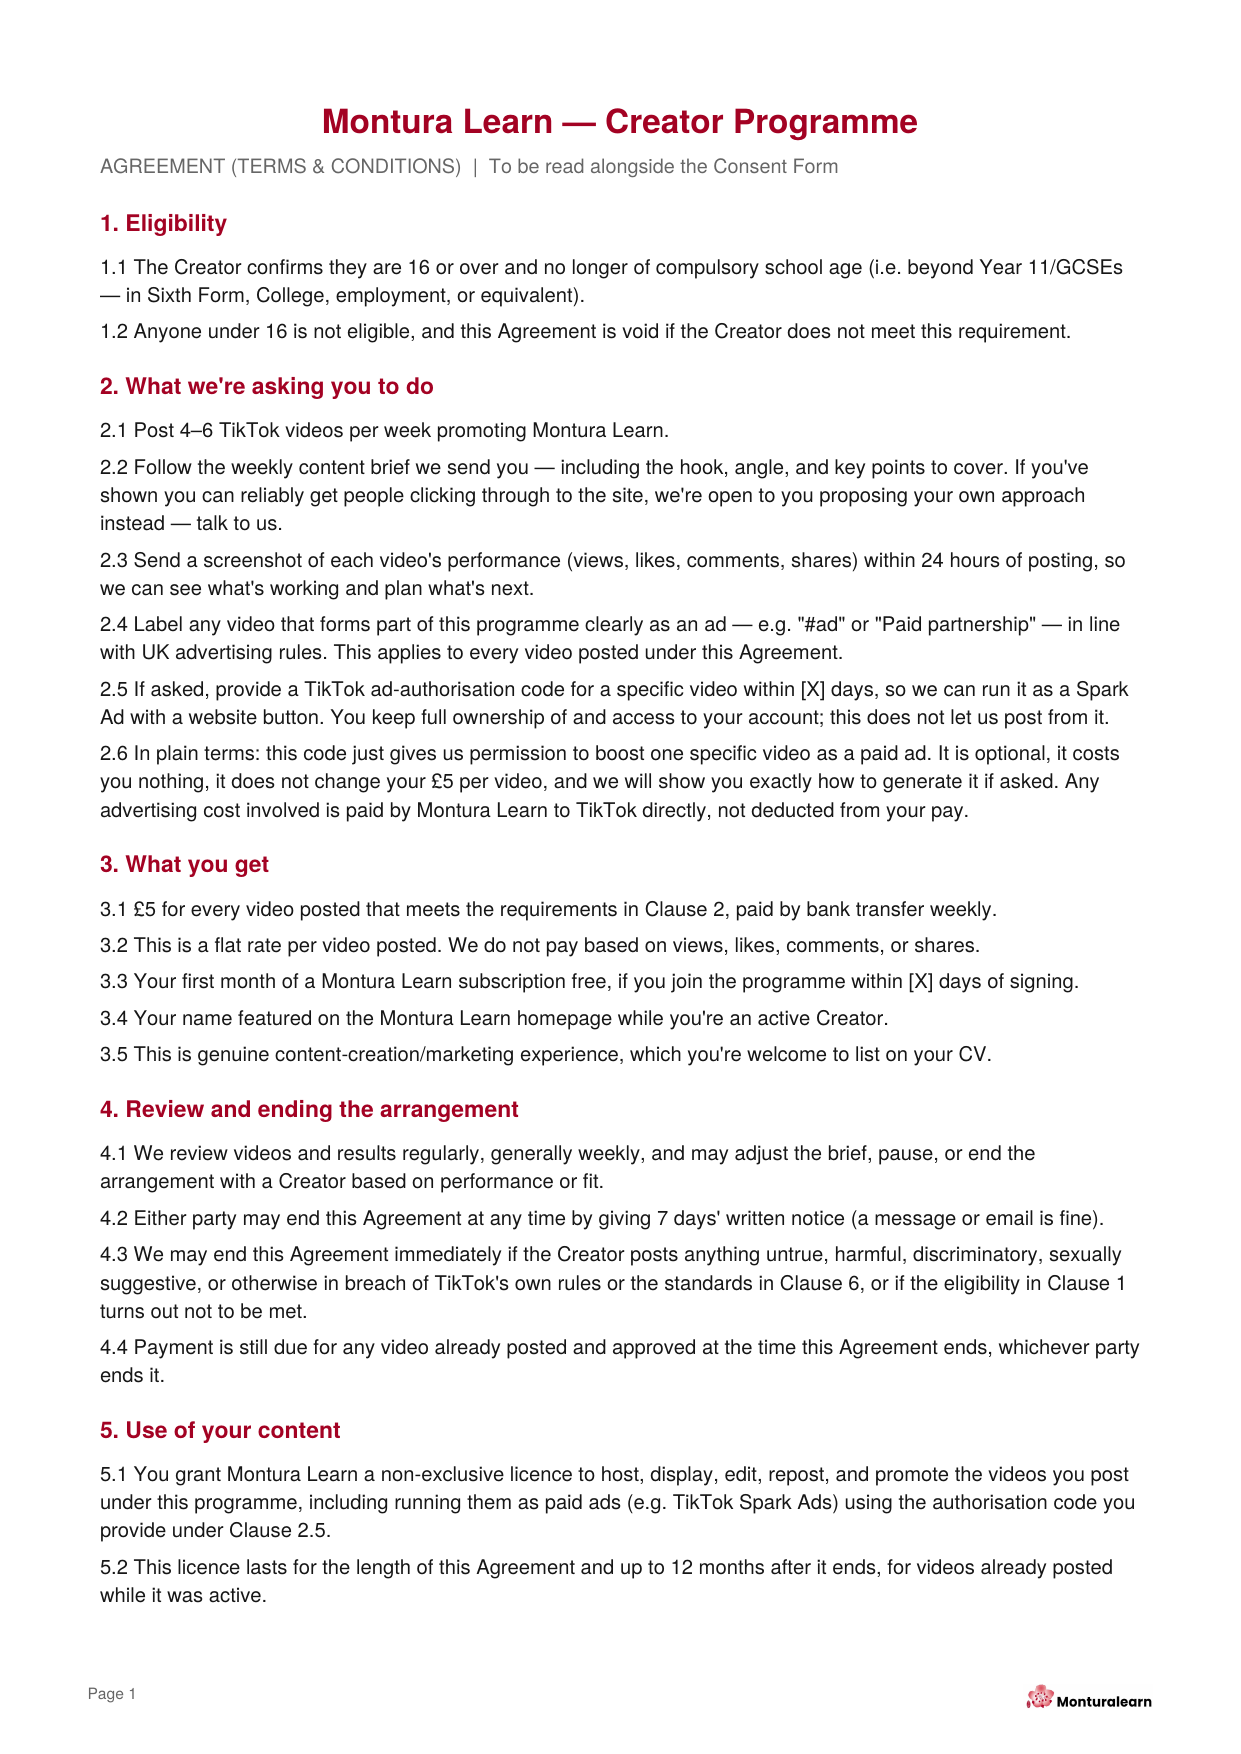
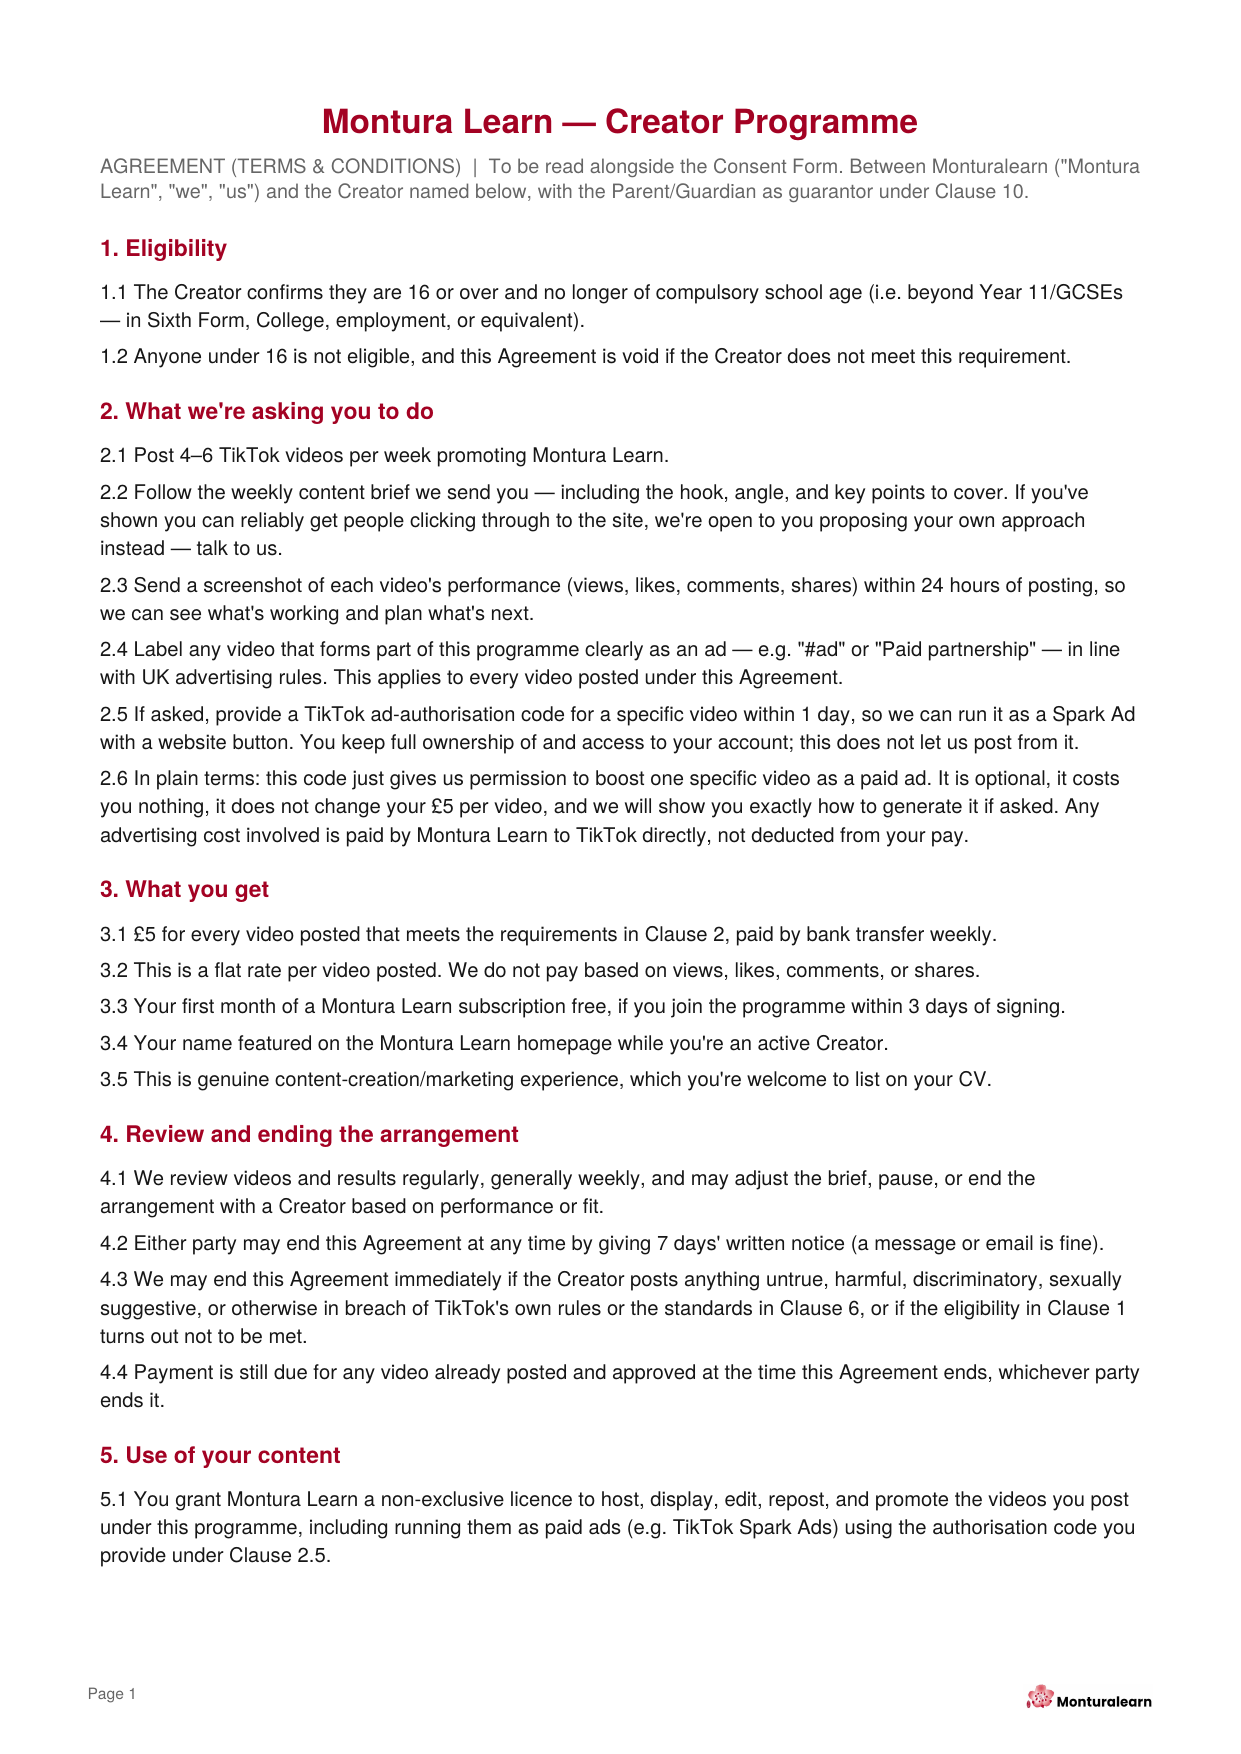
Update creator consent form and agreement to latest terms (payment day, tax clause, retention period, TikTok auth wording, signing declaration)

diff --git a/creator-contract.html b/creator-contract.html
@@ -139,6 +139,7 @@
 <div class="doc-wrap">
     <img class="doc-page" src="assets/contract-1.png" alt="Creator Programme Agreement, page 1">
     <img class="doc-page" src="assets/contract-2.png" alt="Creator Programme Agreement, page 2">
+    <img class="doc-page" src="assets/contract-3.png" alt="Creator Programme Agreement, page 3">
     <p class="scroll-hint">That's the full Agreement — sign below ↓</p>
 </div>
 

diff --git a/creator-consent.html b/creator-consent.html
@@ -138,6 +138,7 @@
 
 <div class="doc-wrap">
     <img class="doc-page" src="assets/consent-1.png" alt="Creator Programme Consent Form, page 1">
+    <img class="doc-page" src="assets/consent-2.png" alt="Creator Programme Consent Form, page 2">
     <p class="scroll-hint">That's the full Consent Form — sign below ↓</p>
 </div>
 
